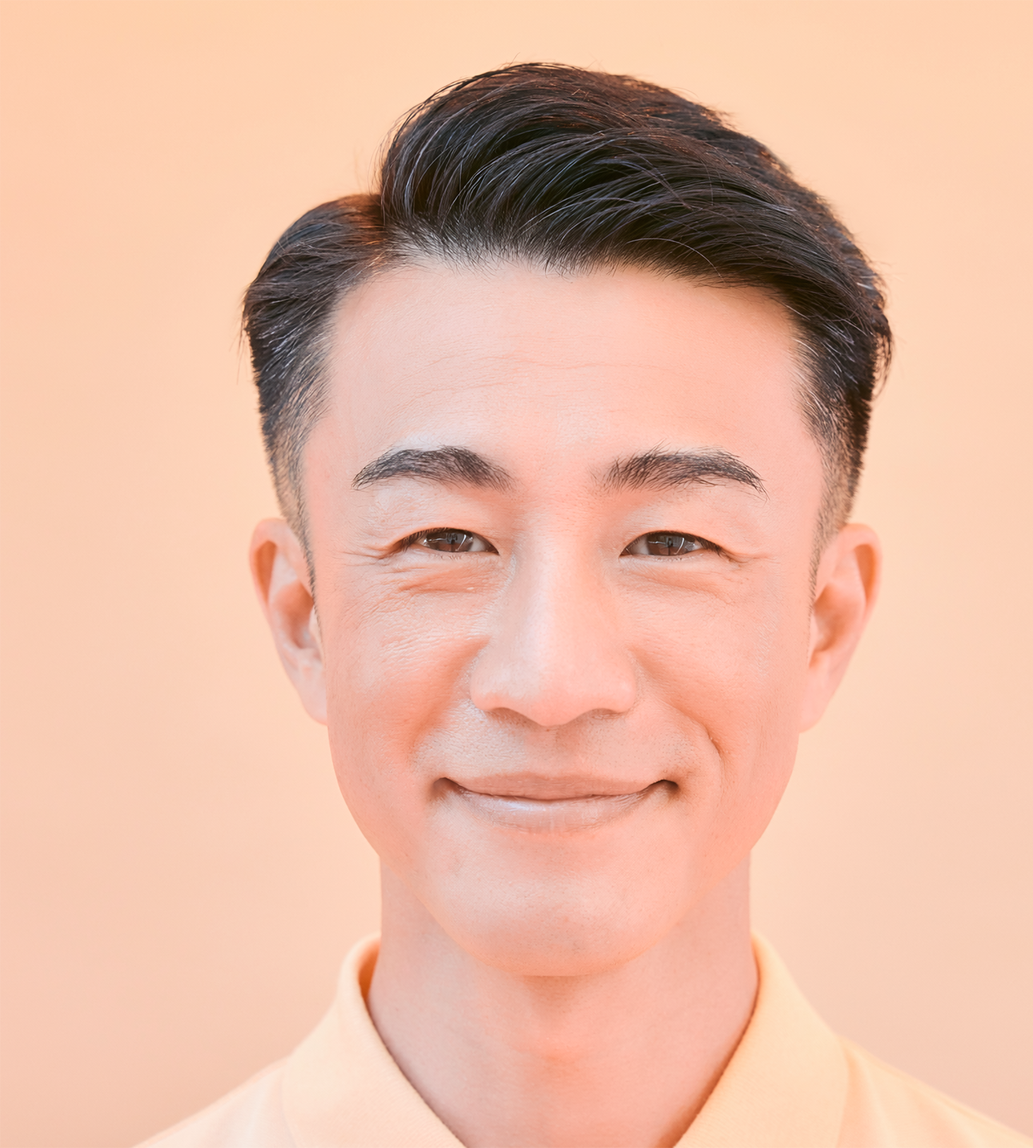
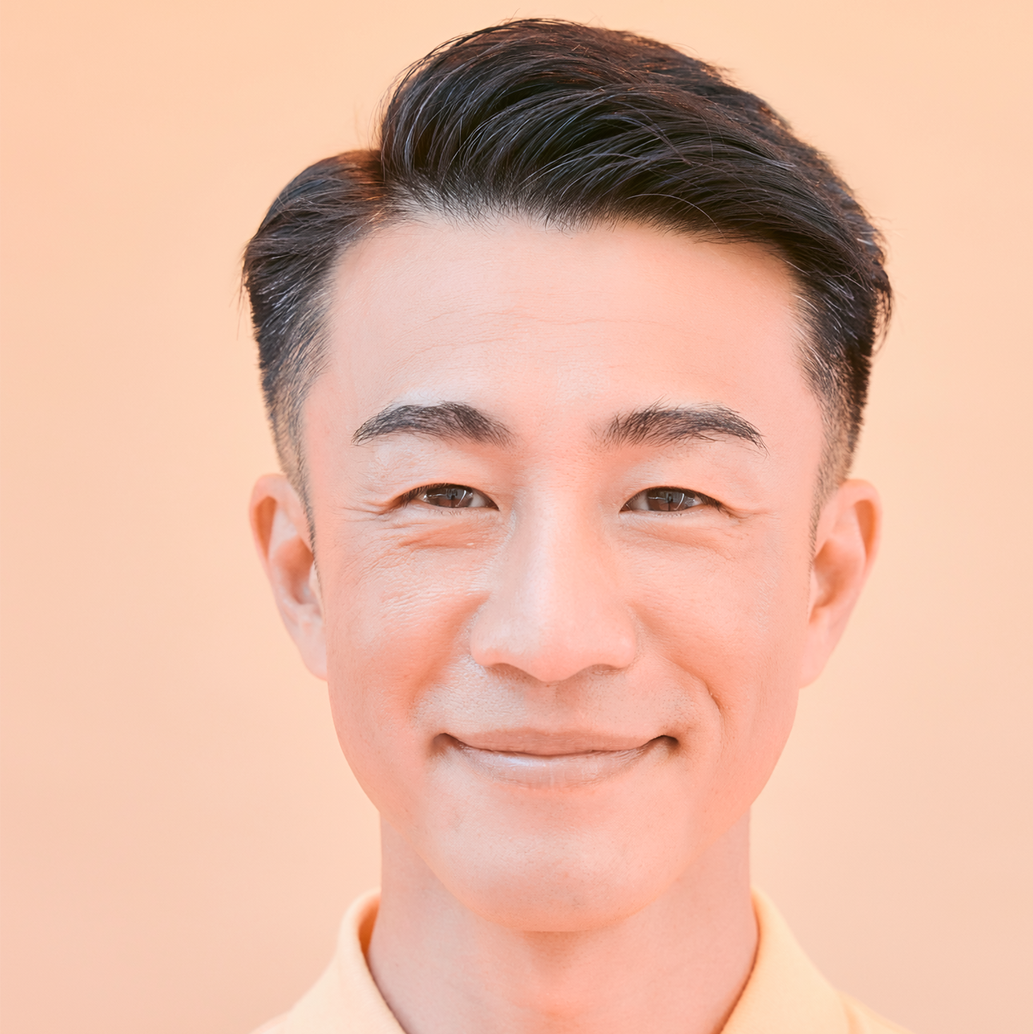
Update index.html and trainer-man.png

diff --git a/index.html b/index.html
@@ -18,7 +18,16 @@
       --font-title: 'ゴシックMB101DB', 'Helvetica Neue', Arial, sans-serif;
       --font-body: '行成MM', 'Yu Mincho', YuMincho, serif;
     }
-
+  /*見出しフォントしてい*/
+   @font-face {
+    font-family: '1';
+    src: local('Slab serif');
+   }
+  @font-face {
+    font-family: '2';
+    src: local('Sans serif');
+   }
+  
     /* --- Reset --- */
     *, *::before, *::after { box-sizing: border-box; margin: 0; padding: 0; }
 
@@ -48,6 +57,7 @@
       margin-bottom: 48px;
       display: block;
       text-align: center;
+      text-shadow: 1px 2px 0px var(--color-orange-accent);
     }
 
     /* --- CTA Button --- */
@@ -182,15 +192,21 @@
     .nav-overlay.active { display: block; }
 
     /* --- 1. FV --- */
+   .change-font { 
+    font-family: '1', 'Slab serif';
+    font-size: 2.2rem;
+  }
     h1 {
       font-size: 1.7rem;
       color: var(--color-white);
       background-color: var(--color-orange-accent);
       font-weight: bold;
-      margin-bottom: 12px;
+      margin-bottom: 1.2rem;
       padding: 14px 12px;
       border-radius: 8px;
       font-family: corbel, sans-serif;
+
+      box-shadow: 10px 15px 7px var(--color-brown-main);
     }
     
     .fv {
@@ -238,6 +254,7 @@
     .system-appeal {
       background-color: var(--color-white);
       border-left: 4px solid var(--color-brown-main);
+      border-right: 4px solid var(--color-brown-main);
       padding: 14px 16px;
       margin-bottom: 1rem;
       margin-top: 1rem;
@@ -267,6 +284,7 @@
       align-items: flex-start;
       gap: 12px;
       text-align: left;
+      box-shadow: 3px 4px 7px var(--color-brown-main);
     }
     .pain-item::before { content: "✕"; color: var(--color-gray); font-weight: bold; font-size: 1.1rem; flex-shrink: 0; }
 
@@ -278,6 +296,7 @@
       background-color: var(--color-white);
       padding: 48px;
       border-radius: 12px;
+      box-shadow: 8px 12px 5.5px var(--color-brown-main);
     }
     .concept-text { font-size: 1rem; text-align: justify; }
     
@@ -334,6 +353,7 @@
       color: var(--color-orange-accent);
       margin-bottom: 0.5rem;
       text-align: center;
+      text-shadow: 1px 2px 0px var(--color-brown-main);
     }
     .price-section-title01 {
       font-family: var(--font-title);
@@ -341,6 +361,7 @@
       color: var(--color-orange-accent); 
       margin-bottom: 1.5rem; 
       text-align: center;
+      text-shadow: 1px 2px 0px var(--color-brown-main);
     }
     .price-section-title::before { 
       font-size: 1.6rem; 
@@ -415,6 +436,7 @@
       position: relative;
       cursor: pointer;
       transition: transform 0.3s;
+      box-shadow: 3px 4px 5.5px var(--color-brown-main);
     }
     .staff-card:hover { transform: translateY(-2px); }
     .staff-avatar-placeholder {
@@ -422,7 +444,7 @@
       height: 110px;
       margin: 0 auto 14px;
       background-color: #d5cfc2;
-      border: 3px solid var(--color-white);
+      border: 3px solid var(--color-pink-light);
       box-shadow: 0 2px 10px rgba(0,0,0,0.05);
     }
     .staff-name { font-size: 1rem; margin-bottom: 4px; }
@@ -463,7 +485,11 @@
     
     /* --- 8. Flow --- */
     .flow { background-color: var(--color-white); }
-    .flow-steps { display: flex; flex-direction: column; gap: 20px; max-width: 600px; margin: 0 auto; }
+    .flow-steps { 
+      display: flex; 
+      flex-direction: column; gap: 20px; 
+      max-width: 600px; margin: 0 auto;
+   }
     .flow-step {
       background-color: var(--color-pink-light);
       padding: 22px;
@@ -471,6 +497,7 @@
       display: flex;
       gap: 18px;
       align-items: flex-start;
+       box-shadow: 3px 4px 5.5px var(--color-brown-main);
     }
     .step-num {
       font-family: var(--font-title);
@@ -489,7 +516,13 @@
     /* --- 9. FAQ --- */
     .faq { background-color: var(--color-pink-light); }
     .faq-container { max-width: 750px; margin: 0 auto; }
-    .faq-item { background-color: var(--color-white); margin-bottom: 14px; border-radius: 8px; padding: 22px; }
+    .faq-item { 
+      background-color: var(--color-white);
+       margin-bottom: 14px; 
+       border-radius: 8px; 
+       padding: 22px; 
+      box-shadow: 3px 4px 5.5px var(--color-brown-main);
+      }
     .faq-q { font-family: var(--font-title); font-weight: bold; color: var(--color-orange-accent); margin-bottom: 8px; }
 
     /* --- 10. Closing --- */
@@ -618,7 +651,7 @@
   <section id="home" class="fv">
     <div class="fv-container">
       <div class="fv-image-container">
-        <h1>Me-time Fitness Studio</h1>
+        <h1><span class="change-font">M</span>e-time <span class="change-font">F</span>itness <span class="change-font">S</span>tudio</h1>
           <img class="fv-image" src="title.png" alt="メインタイトル：もうひとりで頑張らなくていい −５kg トレーニングに励むお客様と寄り添うトレーナー">
         
       </div>
@@ -653,7 +686,7 @@
   <!-- 2. 共感・お悩み提起 -->
   <section id="synpathy" class="pain section-padding text-center">
     <div class="container fade-up">
-      <h2 class="section-title">ダイエット、こんな風に<br>ひとりで<br>悩んでいませんか？</h2>
+      <h2 class="section-title">ダイエット　こんな風に<br>ひとりで<br>悩んでいませんか？</h2>
       <ul class="pain-list" style="display: inline-block; text-align: left;">
         <li class="pain-item">「ダイエットが続かない、いつも途中でリバウンドしてしまう…」</li>
         <li class="pain-item">「厳しい食事制限や、ハードなトレーニングについていけるか不安…」</li>
@@ -668,7 +701,7 @@
   <section id="concepts" class="concept section-padding text-center">
     <div class="container fade-up">
       <div class="concept-box">
-        <h2 class="section-title" style="margin-bottom: 24px;">あなたのお悩みに、<br>Diet HoliDaysは寄り添います。</h2>
+        <h2 class="section-title" style="margin-bottom: 24px;">あなたのお悩みに<br>Diet HoliDaysは寄り添います。</h2>
         <p class="concept-text">Diet HoliDaysでは、お客様とスタッフは上下関係のない「対等なパートナー」です。私たちはただ、プロとしての正しいアドバイスを贈るだけ。全員がひとつの目標に向かって進む「船の仲間」であり、助け合うことを何よりも大切にしています。<br><br>お客様が威張るのも、スタッフが威張るのもおかしい。お互いを尊重し合いながら、目標に向かってゆったり、でも懸命に進んでいきましょう。<br><br>私たちが目指すのは、単なる減量ではなく、体を鍛え、容姿を整えた先にある「お客様の理想の自己実現」です。会社全体がクリアで開かれた場所であるために、私たちは質の高いサービスをお手頃な価格で提供し、一丸となって精励しています。</p>
       </div>
     </div>
@@ -698,7 +731,7 @@
         <div class="reason-text">
           <div class="square-container">
             <span class="reason-num">Reason 02</span>
-            <h3 class="reason-title">W資格栄養士による、<br>無理のない食事アドバイス&宅配</h3>
+            <h3 class="reason-title">W資格栄養士による<br>無理のない食事アドバイス&宅配</h3>
             <p>栄養士・スポーツ栄養士のW資格を持つ食のプロがサポート。極端な制限はなく、あなた専用のオリジナルメニューで美しく痩せる知識が身につきます。<br><strong>【食事宅配サービス（別料金）】：</strong>ダイエット中の食の心配がなくなる、1日3食の宅配メニューもご用意しています。</p>
           </div>
         </div>
@@ -711,7 +744,7 @@
         <div class="reason-text">
           <div class="square-container">
             <span class="reason-num">Reason 03</span>
-            <h3 class="reason-title">W資格心理士による、<br>障壁を取り除くカウンセリング</h3>
+            <h3 class="reason-title">W資格心理士による<br>障壁を取り除くカウンセリング</h3>
             <p>臨床心理士・産業カウンセラーのW資格を持つカウンセリングのプロがサポート。目標に向かう運動や減量のストレスに伴う不安、仕事の不安にカウンセラーが寄り添います。</p>
           </div>
         </div>
